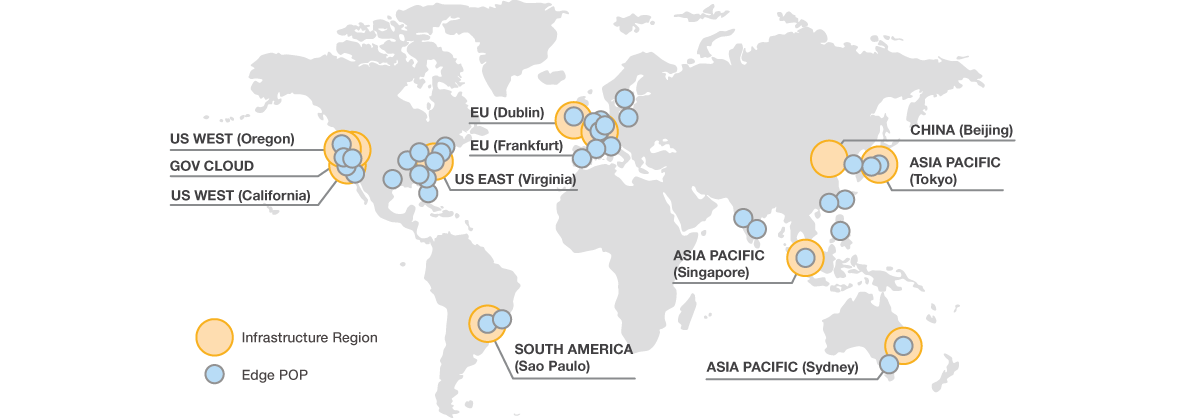
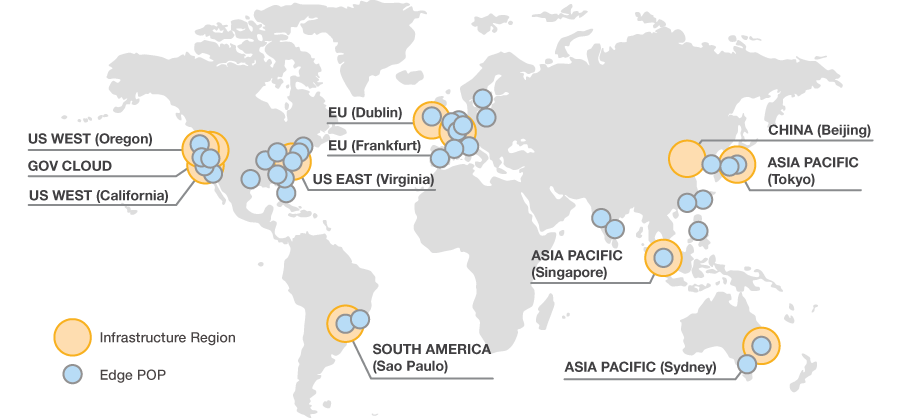
Updated EC2, IAM and VPC material

Changed region(s): [[0.0311, 0.0, 0.9634, 0.9952], [0.8701, 0.7464, 0.9012, 0.7775], [0.5283, 0.9019, 0.5594, 0.933]]

diff --git a/docs/02-compute/README.md b/docs/02-compute/README.md
@@ -6,6 +6,18 @@
 
 ## Agenda
 
+- EC2
+- IAM
+- VPC
+- ELB, ASG
+
+--
+
+## Prerequisites
+
+- Browser and Internet access
+- SSH client (e.g. [Putty](http://www.chiark.greenend.org.uk/~sgtatham/putty/download.html) on Windows)
+
 ---
 
 # Elastic Compute Cloud
@@ -16,7 +28,7 @@
 
 - One of the core services of AWS
 - Virtual machines (or *instances*) as a service
-- ~20 different *instance types* that vary in performance and cost
+- Dozens of *instance types* that vary in performance and cost
 - Instance is created from an *Amazon Machine Image (AMI)*, which in turn can be created again from instances
 
 Notes: Usage is billed per *instance-hour* for running instances. Prices vary based on region, instance type, and operating system. Purchasing options include *On-Demand Instances*, *Reserved Instances*, *Spot Instances*
@@ -25,13 +37,15 @@ Notes: Usage is billed per *instance-hour* for running instances. Prices vary ba
 
 ![AWS Region map](/images/aws_map_regions.png)
 
+[Regions](http://docs.aws.amazon.com/AWSEC2/latest/UserGuide/using-regions-availability-zones.html) and CDN [Edge Locations](http://aws.amazon.com/about-aws/global-infrastructure/)
+
 Notes: Regions: Frankfurt, Ireland, US East (N. Virginia), US West (N. California), US West (Oregon), South America (Sao Paulo), Tokyo, Singapore, Sydney. Special regions are **GovCloud** and **Beijing**.
 
 --
 
 ![AWS EU Region map](/images/aws_map_regions_eu.png)
 
-[Regions, Availability Zones (AZ)](http://docs.aws.amazon.com/AWSEC2/latest/UserGuide/using-regions-availability-zones.html) and CDN [Edge Locations](http://aws.amazon.com/about-aws/global-infrastructure/)
+[Regions and Availability Zones (AZ)](http://docs.aws.amazon.com/AWSEC2/latest/UserGuide/using-regions-availability-zones.html)
 
 Notes: We will only use Ireland (eu-west-1) region in this workshop. See also [A Rare Peek Into The Massive Scale of AWS](http://www.enterprisetech.com/2014/11/14/rare-peek-massive-scale-aws/).
 
@@ -40,33 +54,105 @@ Notes: We will only use Ireland (eu-west-1) region in this workshop. See also [A
 ## Networking in AWS
 
 - Regions and availability zones
-- *Security groups* provide firewalling
+- *Security groups* provide port-level firewalls to instances
 - More detailed IP subnetting with [Virtual Private Cloud (VPC)](http://aws.amazon.com/vpc/)
+
+--
+
+## Exercise: Launch an EC2 instance
+
+1. Log-in to [gofore-crew.signin.aws.amazon.com/console](https://gofore-crew.signin.aws.amazon.com/console)
+2. Switch to Ireland region and go to EC2 dashboard
+3. Launch a new EC2 instance according to instructions
+4. During *"Step 3: Configure Instance Details"*, pass a shell script as [*User Data*](http://docs.aws.amazon.com/AWSEC2/latest/UserGuide/user-data.html) under Advanced
+
+--
+
+<pre><code data-trim="" class="shell">
+#!/bin/sh
+touch /new_empty_file_we_created.txt
+echo "It works!" > /it_works.txt
+</code></pre>
+
+--
+
+## Exercise: Launch an EC2 instance
+
+SSH into the instance (find the IP address in the EC2 console)
+
+    # Putty users must convert key to .ppk
+    ssh -i your_ssh_key.pem ubuntu@instance_ip_address
+
+View instance metadata
+
+    curl http://169.254.169.254/latest/meta-data/
+
+View your [*User Data*](http://docs.aws.amazon.com/AWSEC2/latest/UserGuide/user-data.html) and find the changes your script made
+
+    curl http://169.254.169.254/latest/user-data/
+    ls -la /
+
+
+Notes: You will have to reduce keyfile permissions `chmod og-xrw mykeyfile.pem`. If you are on Windows and use Putty, you will have to convert the .pem key to .ppk key using [puttygen](http://www.chiark.greenend.org.uk/~sgtatham/putty/download.html)
+
+---
+
+# Identity and Access Management
 
 --
 
 ## [Identity and Access Management (IAM)](http://aws.amazon.com/iam/)
 
-- User-specific *access keys* for API access
-- Fine-grained access policies to services and resources
-- IAM *roles* to automatically allow API access within AWS.
+- Manage AWS user [*credentials*](http://docs.aws.amazon.com/IAM/latest/UserGuide/Using_ManagingLogins.html) for Web console and API access
+- Fine-grained access [*policies*](http://docs.aws.amazon.com/IAM/latest/UserGuide/policies.html) to services and resources
+- Provide temporary access with [*roles*](http://docs.aws.amazon.com/IAM/latest/UserGuide/roles-toplevel.html)
 
 Notes: Always use roles, do not store credentials inside the instances, or [something bad](http://www.browserstack.com/attack-and-downtime-on-9-November) might happen.
 
 --
 
-## Exercise: Launch an instance
+## Users on many levels
 
-1. Log-in to [gofore-crew.signin.aws.amazon.com/console](https://gofore-crew.signin.aws.amazon.com/console)
-2. Go to EC2 dashboard and switch to Ireland region
-3. Pass a shell script as [*User Data*](http://docs.aws.amazon.com/AWSEC2/latest/UserGuide/user-data.html) (configure instance -> advanced)
-4. `ssh -i your_key.pem ubuntu@instance_hostname`
-5. `curl http://169.254.169.254/latest/user-data/`
-6. `curl http://169.254.169.254/latest/meta-data/`
-
-Notes: You will have to reduce keyfile permissions `chmod og-xrw mykeyfile.pem`. If you are on Windows and use Putty, you will have to convert the .pem key to .ppk key using [puttygen](http://www.chiark.greenend.org.uk/~sgtatham/putty/download.html)
+Imagine running a discussion board in EC2. On how many different levels you might have user accounts?
 
 
+---
+
+# Virtual Private Cloud
+
+--
+
+## [Virtual Private Cloud (VPC)](http://docs.aws.amazon.com/AmazonVPC/latest/UserGuide/VPC_Introduction.html)
+
+- Heavy-weight virtual IP networking for EC2 and RDS instances. Integral part of AWS, all instances are launched into VPCs
+- An AWS root account can have many VPCs, each in a specific region
+- Each VPC is divided into [*subnets*](http://docs.aws.amazon.com/AmazonVPC/latest/UserGuide/VPC_Subnets.html). Each subnet is in a specific availability zone
+- Each instance connects to a subnet with a Elastic Network Interface
+
+--
+
+![VPC with Public and Private Subnets](http://docs.aws.amazon.com/AmazonVPC/latest/UserGuide/images/nat-instance-diagram.png)
+
+[VPC with Public and Private Subnets](http://docs.aws.amazon.com/AmazonVPC/latest/UserGuide/VPC_Scenario2.html)
+
+--
+
+![VPC with Public and Private Subnets and Hardware VPN Access](http://docs.aws.amazon.com/AmazonVPC/latest/UserGuide/images/Case3_Diagram.png)
+
+[VPC with Public and Private Subnets and Hardware VPN Access](http://docs.aws.amazon.com/AmazonVPC/latest/UserGuide/VPC_Scenario3.html)
+
+--
+
+## Recap
+
+- Instance and Elastic Network Interface
+- Region and Availability Zone
+- VPC and Subnet
+- ACL and Security Group
+- Internet Gateway, Virtual Private Gateway, NAT instance
+
+
+---
 
 # [Auto Scaling](http://docs.aws.amazon.com/AutoScaling/latest/DeveloperGuide/WhatIsAutoScaling.html)
 
